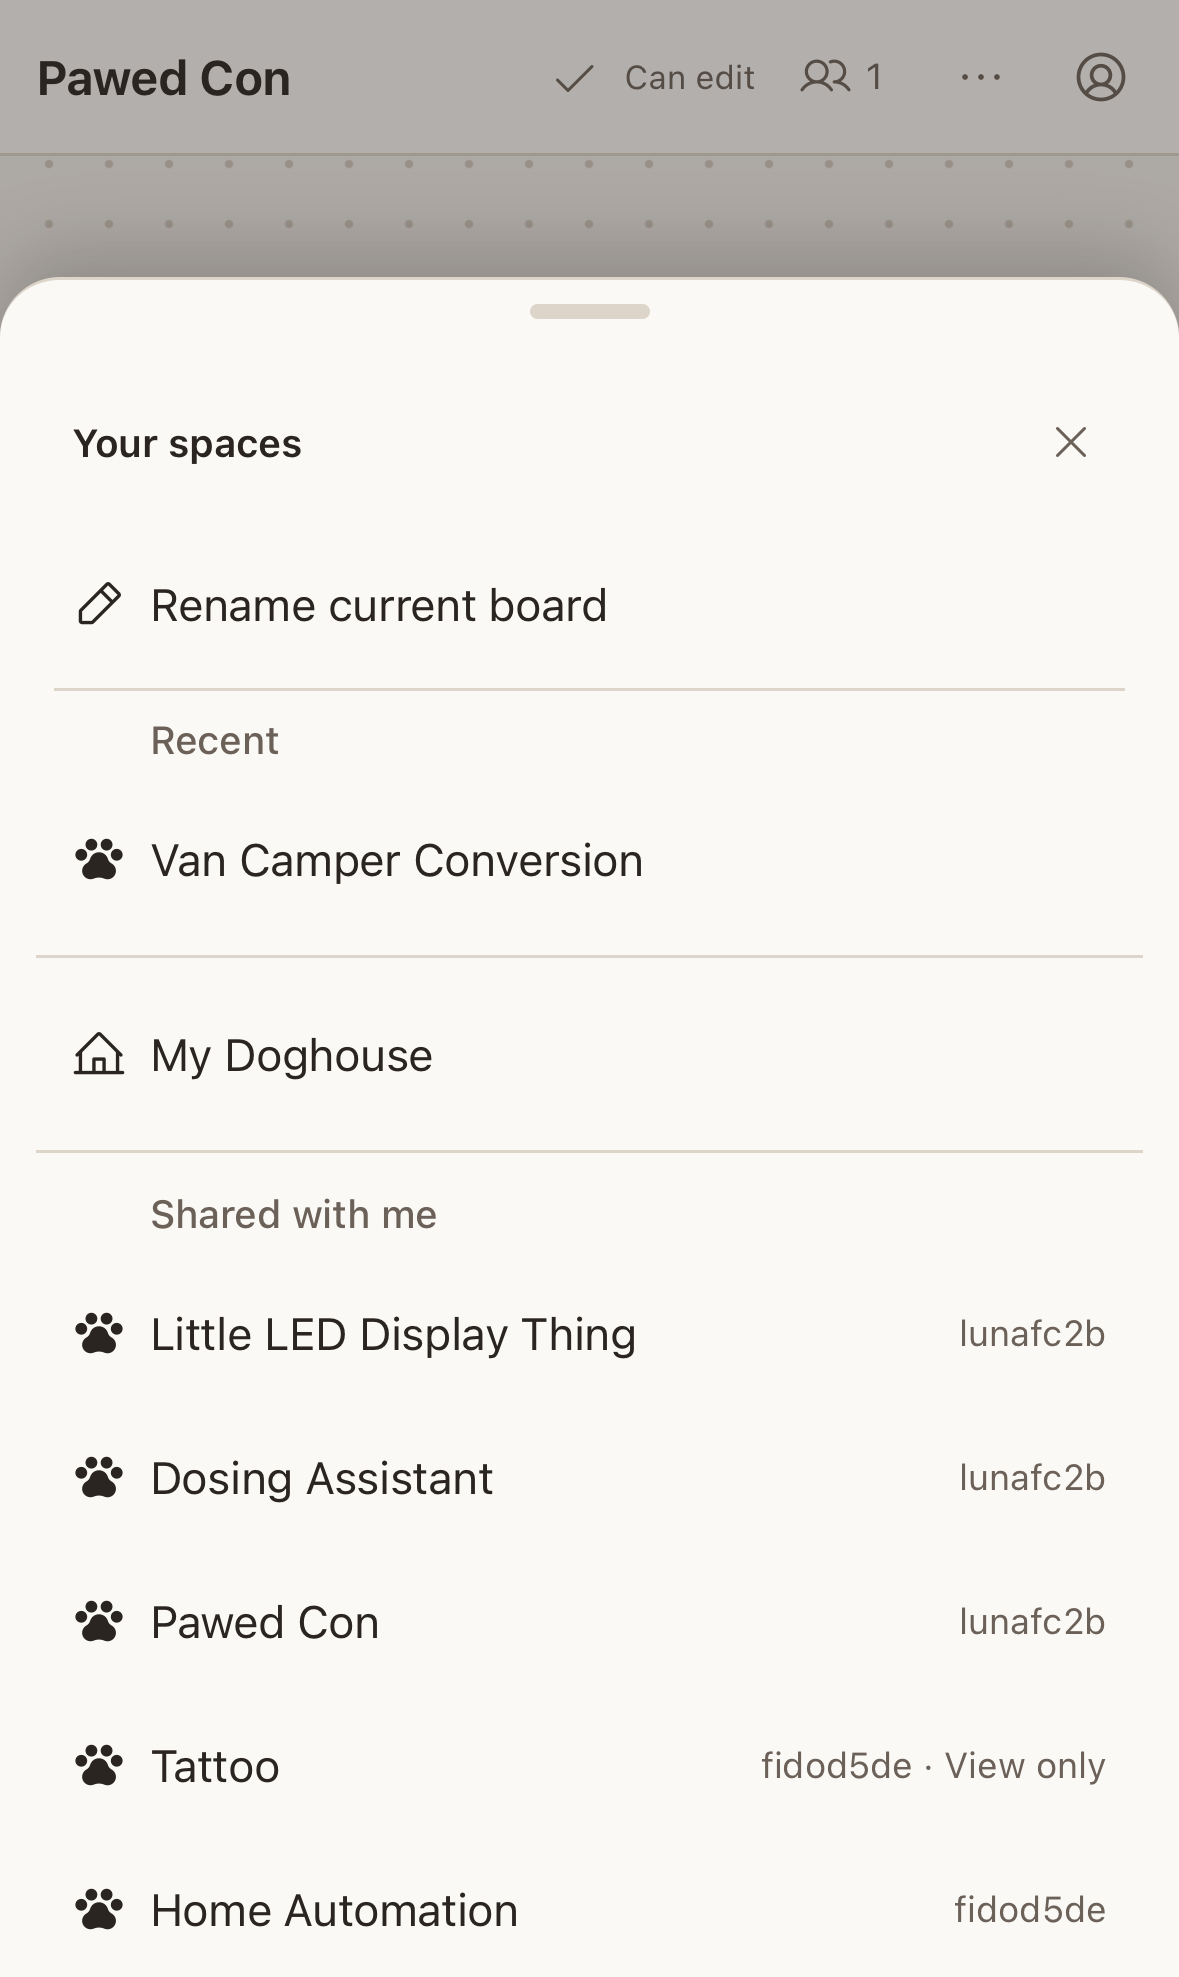
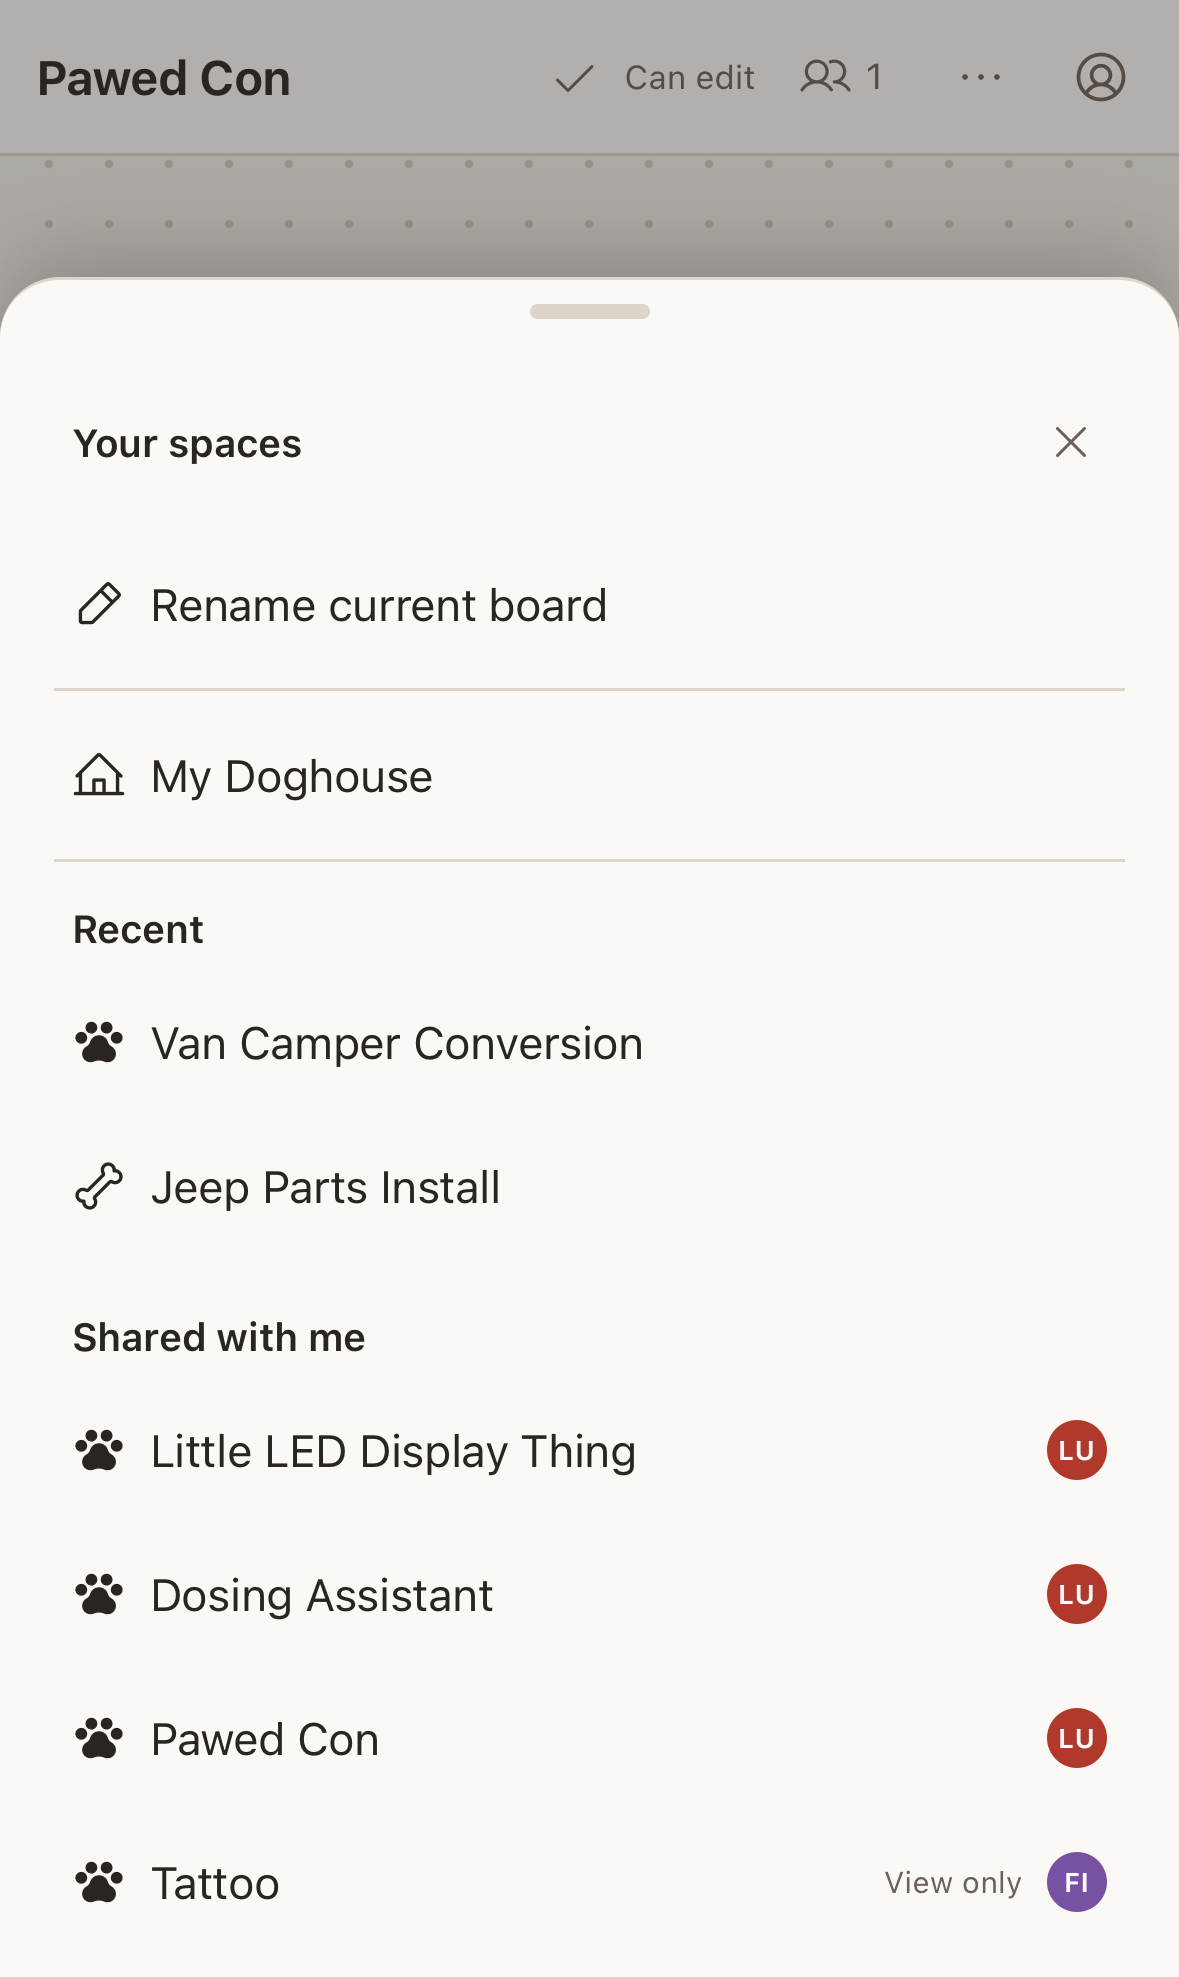
Give Your spaces real sections: places first, then Recent and Shared
Design review follow-up. Section titles looked like row metadata, My
Doghouse floated alone between two rules, and repeated usernames made a
ragged right edge.

- Fixed places (My Doghouse, Shared space) sit on top in the same spot;
  one rule separates them from the lists below.
- Recent and Shared with me headings use the text colour, semibold, aligned
  with the icons, with more room above than below. No extra rules.
- Who shared a board is their avatar in their cursor colour (personColor);
  the row's accessible name and tooltip spell out the name. /api/access adds
  sharedById (additive).
- Show all is a plain text row in the label column, not a fake board row.

diff --git a/apps/web/src/ui/BoardNavigation.tsx b/apps/web/src/ui/BoardNavigation.tsx
@@ -5,11 +5,13 @@ import { boardPermissions, homeBoardId, legacyShared } from '../state/access.ts'
 import { user } from '../state/session.ts'
 import { boardId, openBoard, recentBoards, setRenamingBoardId } from '../state/ui.ts'
 import { phone } from '../state/device.ts'
-import { canReadBoard } from '../state/access.ts'
+import { canReadBoard, type BoardPermission } from '../state/access.ts'
 import { sharedRoots } from '../state/sharedBoards.ts'
+import { initials, personStyle } from '../state/realtime.ts'
 import * as doc from '../state/doc.ts'
 import { BoardIconSvg, Icon } from './icons.tsx'
 import './navigation.css'
+import './collaboration.css'
 import { installMenu } from './menu.ts'
 
 const SHARED_PREVIEW = 5
@@ -31,6 +33,8 @@ export function BoardNavigation(props: { renderTrigger?: (state: { open: Accesso
     sharedList.querySelectorAll<HTMLButtonElement>('[data-testid="shared-board-link"]')[SHARED_PREVIEW]?.focus()
   }
   createEffect(() => { if (!open()) setShowAll(false) })
+  // The avatar only shows initials, so the row's name says who shared it and whether it's view only.
+  const sharedLabel = (b: BoardPermission) => [sharedTitle(b), b.sharedBy && `${COPY.boards.sharedBy} ${b.sharedBy}`, !b.canEdit && COPY.boards.viewOnly].filter(Boolean).join(', ')
   function go(id: string) { openBoard(id); setOpen(false); trigger.focus() }
   const canRename = () => phone() && !boardId().startsWith('toybox:') && doc.canWriteObject(doc.getBoard(boardId()))
   const rename = () => {
@@ -49,19 +53,20 @@ export function BoardNavigation(props: { renderTrigger?: (state: { open: Accesso
       <div class="nav-menu-head"><strong>{COPY.boards.heading}</strong><button class="icon-btn" aria-label={COPY.boards.close} onClick={() => { setOpen(false); trigger.focus() }}><Icon size={16} name="close" /></button></div>
       <div class="board-nav-scroll" data-testid="board-navigation-list">
         <Show when={canRename()}><button class="menu-item nav-menu-row" data-testid="rename-current-board" onClick={rename}><Icon name="edit" size={18} /><span class="nav-menu-label">{COPY.boards.rename}</span></button><div class="menu-sep" role="separator" /></Show>
+        <button class="menu-item nav-menu-row" data-testid="personal-home" onClick={() => go(homeBoardId())}><BoardIconSvg icon="kennel" size={18} /><span class="nav-menu-label">My {COPY.home}</span></button>
+        <Show when={legacyShared()}><div class="nav-menu-group"><button class="menu-item nav-menu-row" data-testid="legacy-space" aria-describedby={`${menuId}-legacy-description`} onClick={() => go('home')}><BoardIconSvg icon="paw" size={18} /><span class="nav-menu-label">{COPY.boards.legacy}</span></button><p id={`${menuId}-legacy-description`} class="nav-menu-description">{COPY.boards.legacyHint}</p></div></Show>
+        <div class="menu-sep" role="separator" />
         <Show when={recent().length}>
           <section class="nav-menu-recent" aria-labelledby={`${menuId}-recent-heading`}>
             <strong id={`${menuId}-recent-heading`} class="nav-menu-section-label">{COPY.boards.recent}</strong>
             <For each={recent()}>{(id) => <button class="menu-item nav-menu-row" data-testid="recent-board" onClick={() => go(id)}><BoardIconSvg icon={doc.getBoard(id)?.icon ?? 'paw'} size={18} /><span class="nav-menu-label">{boardDisplayTitle(doc.getBoard(id), id.startsWith('home') ? `My ${COPY.home}` : 'Untitled board')}</span></button>}</For>
           </section>
         </Show>
-        <button class="menu-item nav-menu-row" data-testid="personal-home" onClick={() => go(homeBoardId())}><BoardIconSvg icon="kennel" size={18} /><span class="nav-menu-label">My {COPY.home}</span></button>
-        <Show when={legacyShared()}><div class="nav-menu-group"><button class="menu-item nav-menu-row" data-testid="legacy-space" aria-describedby={`${menuId}-legacy-description`} onClick={() => go('home')}><BoardIconSvg icon="paw" size={18} /><span class="nav-menu-label">{COPY.boards.legacy}</span></button><p id={`${menuId}-legacy-description`} class="nav-menu-description">{COPY.boards.legacyHint}</p></div></Show>
         <section ref={sharedList} class="nav-menu-section" aria-labelledby={`${menuId}-shared-heading`}>
           <strong id={`${menuId}-shared-heading`} class="nav-menu-section-label">{COPY.boards.shared}</strong>
           <Show when={shared().length} fallback={<p class="nav-menu-description">{COPY.boards.sharedEmpty}</p>}>
-            <For each={visibleShared()}>{(b) => <button class="menu-item nav-menu-row" data-testid="shared-board-link" onClick={() => go(b.id)}><BoardIconSvg icon={doc.getBoard(b.id)?.icon ?? 'paw'} size={18} /><span class="nav-menu-label">{sharedTitle(b)}</span><Show when={b.sharedBy || !b.canEdit}><small class="nav-menu-meta"><Show when={b.sharedBy}><span class="nav-menu-who" title={b.sharedBy ?? undefined}>{b.sharedBy}</span></Show>{b.sharedBy && !b.canEdit ? ' · ' : ''}{b.canEdit ? '' : COPY.boards.viewOnly}</small></Show></button>}</For>
-            <Show when={!showAll() && shared().length > SHARED_PREVIEW}><button class="menu-item nav-menu-row nav-menu-more" data-testid="shared-show-all" onClick={expandShared}><Icon size={18} name="chevronDown" /><span class="nav-menu-label">{COPY.boards.showAll} ({shared().length})</span></button></Show>
+            <For each={visibleShared()}>{(b) => <button class="menu-item nav-menu-row" data-testid="shared-board-link" aria-label={sharedLabel(b)} onClick={() => go(b.id)}><BoardIconSvg icon={doc.getBoard(b.id)?.icon ?? 'paw'} size={18} /><span class="nav-menu-label">{sharedTitle(b)}</span><Show when={b.sharedBy || !b.canEdit}><span class="nav-menu-meta"><Show when={!b.canEdit}><small>{COPY.boards.viewOnly}</small></Show><Show when={b.sharedBy}>{(name) => <span class="person-avatar nav-menu-avatar" data-testid="shared-by" style={personStyle(b.sharedById ?? name())} title={`${COPY.boards.sharedBy} ${name()}`} aria-hidden="true">{initials(name())}</span>}</Show></span></Show></button>}</For>
+            <Show when={!showAll() && shared().length > SHARED_PREVIEW}><button class="menu-item nav-menu-row nav-menu-more" data-testid="shared-show-all" onClick={expandShared}><span aria-hidden="true" /><span class="nav-menu-label">{COPY.boards.showAll} ({shared().length})</span></button></Show>
           </Show>
         </section>
       </div>

diff --git a/apps/web/src/ui/navigation.css b/apps/web/src/ui/navigation.css
@@ -16,8 +16,6 @@
 .nav-menu-row > svg { width: 18px; height: 18px; flex-shrink: 0; }
 .nav-menu-label { min-width: 0; text-align: left; overflow-wrap: anywhere; }
 .nav-menu-meta { margin-left: auto; color: var(--dn-text-muted); font-size: 12px; white-space: nowrap; }
-/* Who shared a board: a long username shortens, the board's name keeps the room. */
-.nav-menu-who { display: inline-block; max-width: 10em; overflow: hidden; text-overflow: ellipsis; vertical-align: bottom; }
 .nav-menu-head { display: flex; align-items: center; justify-content: space-between; gap: 12px; padding: 4px 4px 8px 12px; }
 .nav-menu-head strong { font-size: 13px; font-weight: 600; line-height: 20px; }
 .nav-menu-head .icon-btn { flex-shrink: 0; }
@@ -27,8 +25,15 @@
 .board-nav-menu { display: flex; flex-direction: column; width: 340px; min-width: 0; overflow: hidden; }
 .board-nav-menu .nav-menu-head { flex-shrink: 0; }
 .board-nav-scroll { min-height: 0; overflow-y: auto; overscroll-behavior: contain; scrollbar-gutter: stable; }
-.board-nav-menu .nav-menu-section-label { padding-left: 38px; }
-.nav-menu-recent { padding-bottom: 8px; margin-bottom: 8px; border-bottom: 1px solid var(--dn-border); }
+/* Your spaces: fixed places on top, one rule, then lists under real headings
+   (text colour, aligned with the icons, more room above than below). */
+.board-nav-menu .nav-menu-section { padding-top: 0; margin-top: 0; border-top: 0; }
+.board-nav-menu .nav-menu-section-label { padding: 16px 12px 4px; color: var(--dn-text); font-size: 13px; font-weight: 600; line-height: 20px; }
+.board-nav-menu .menu-sep + section > .nav-menu-section-label { padding-top: 8px; }
+.board-nav-menu .nav-menu-section > .nav-menu-description { padding-left: 12px; }
+.board-nav-menu .nav-menu-meta { display: inline-flex; align-items: center; gap: 8px; }
+/* Who shared a board: their initials in their cursor colour. */
+.nav-menu-avatar { width: 20px; height: 20px; font-size: 9px; }
 .nav-menu-more { color: var(--dn-text-muted); }
 .topbar .board-navigation { display: flex; min-width: 0; }
 .ancestor-menu .nav-menu { width: 320px; }

diff --git a/apps/server/src/access.ts b/apps/server/src/access.ts
@@ -98,10 +98,10 @@ accessRoutes.get('/access', requireUser, async (c) => {
   await ensureHome(c.env.DB, c.get('user'))
   const a = await loadAccess(c.env.DB, c.get('user'))
   // When, and by whom, each board was last shared with this user directly. Navigation lists newest shares first.
-  const { results: shared } = await c.env.DB.prepare('SELECT g.board_id, g.created_at, u.username FROM board_grants g LEFT JOIN users u ON u.id=g.created_by LEFT JOIN shares s ON s.token=g.source_token WHERE g.user_id=?1 AND g.revoked_at IS NULL AND (g.source_token IS NULL OR (s.token IS NOT NULL AND s.revoked_at IS NULL)) ORDER BY g.created_at').bind(c.get('user').id).all<{ board_id: string; created_at: number; username: string | null }>()
+  const { results: shared } = await c.env.DB.prepare('SELECT g.board_id, g.created_at, g.created_by, u.username FROM board_grants g LEFT JOIN users u ON u.id=g.created_by LEFT JOIN shares s ON s.token=g.source_token WHERE g.user_id=?1 AND g.revoked_at IS NULL AND (g.source_token IS NULL OR (s.token IS NOT NULL AND s.revoked_at IS NULL)) ORDER BY g.created_at').bind(c.get('user').id).all<{ board_id: string; created_at: number; created_by: string; username: string | null }>()
   const grants = new Map(shared.map((g) => [g.board_id, g]))
   return c.json({ revision: a.revision, homeBoardId: a.homeBoardId, legacyShared: a.legacyShared, boards: [...a.boards.values()].filter((b) => a.canRead(b.id)).map((b) => {
     const g = grants.get(b.id)
-    return { ...b, canEdit: a.canEdit(b.id), canManage: a.canManage(b.id), ...(g && { sharedAt: g.created_at, sharedBy: g.username }) }
+    return { ...b, canEdit: a.canEdit(b.id), canManage: a.canManage(b.id), ...(g && { sharedAt: g.created_at, sharedBy: g.username, sharedById: g.created_by }) }
   }) })
 })

diff --git a/apps/web/e2e/board-navigation.spec.ts b/apps/web/e2e/board-navigation.spec.ts
@@ -48,8 +48,14 @@ test('Shared with me lists the top of each shared tree, newest first, with who s
     const rows = menu.getByTestId('shared-board-link')
     await expect(rows).toHaveCount(3)
     await expect(rows.locator('.nav-menu-label')).toHaveText(['Newer treat ideas', 'Look but no chew', 'Older walk plans'])
-    await expect(rows.nth(0).locator('.nav-menu-meta')).toHaveText(alice.username)
-    await expect(rows.nth(1).locator('.nav-menu-meta')).toHaveText(`${alice.username} · View only`)
+    // Who shared it is an avatar in their colour; the row's name spells it out.
+    await expect(rows.nth(0).getByTestId('shared-by')).toHaveText(alice.username.slice(0, 2).toUpperCase())
+    await expect(rows.nth(0).getByTestId('shared-by')).toHaveAttribute('title', `Shared by ${alice.username}`)
+    await expect(rows.nth(0)).toHaveAccessibleName(`Newer treat ideas, Shared by ${alice.username}`)
+    await expect(rows.nth(1).locator('.nav-menu-meta')).toContainText('View only')
+    await expect(rows.nth(1)).toHaveAccessibleName(`Look but no chew, Shared by ${alice.username}, View only`)
+    // Places come first, then the lists under their headings.
+    await expect(menu.locator('.nav-menu-row, .nav-menu-section-label').first()).toHaveAttribute('data-testid', 'personal-home')
     await expect(menu).not.toContainText('Inner walk route')
     await expect(menu).not.toContainText('Alice’s bench')
     await expect(menu).not.toContainText('Can edit')

diff --git a/apps/web/e2e/visual-navigation.spec.ts b/apps/web/e2e/visual-navigation.spec.ts
@@ -42,9 +42,13 @@ test('Boards empty descriptions align with labels in both appearances and short 
       await contained(menu, width, 480)
       const personal = page.getByTestId('personal-home')
       const labelX = await x(personal.locator('.nav-menu-label'))
-      expect(await x(personal.locator('svg'))).toBeLessThan(labelX)
-      for (const supporting of [menu.locator('.nav-menu-description').first(), menu.locator('.nav-menu-description').last(), menu.locator('.nav-menu-section-label')]) {
-        expect(Math.abs(await x(supporting) + await supporting.evaluate((el) => parseFloat(getComputedStyle(el).paddingLeft)) - labelX)).toBeLessThanOrEqual(1)
+      const iconX = await x(personal.locator('svg'))
+      expect(iconX).toBeLessThan(labelX)
+      const start = (el: Locator) => el.evaluate((node) => node.getBoundingClientRect().x + parseFloat(getComputedStyle(node).paddingLeft))
+      // A place's description sits under its name; list headings and their empty text line up with the icons.
+      expect(Math.abs(await start(menu.locator('.nav-menu-description').first()) - labelX)).toBeLessThanOrEqual(1)
+      for (const heading of [...await menu.locator('.nav-menu-section-label').all(), menu.locator('.nav-menu-description').last()]) {
+        expect(Math.abs(await start(heading) - iconX)).toBeLessThanOrEqual(1)
       }
       const row = await personal.boundingBox()
       expect(row!.height).toBeGreaterThanOrEqual(36)

diff --git a/apps/web/src/ui/Collaboration.tsx b/apps/web/src/ui/Collaboration.tsx
@@ -4,14 +4,13 @@ import './collaboration.css'
 import { For, Show, createMemo, createSignal, onCleanup, onMount } from 'solid-js'
 import { COPY } from '@doggynote/theme'
 import { noteMarkdown, type Card } from '@doggynote/core'
-import { liveState, members, peers, personStyle, sessionName, following, follow, stopFollowing, pingAt, pings, installRealtime } from '../state/realtime.ts'
+import { initials, liveState, members, peers, personStyle, sessionName, following, follow, stopFollowing, pingAt, pings, installRealtime } from '../state/realtime.ts'
 import { boardId, camera, viewport } from '../state/ui.ts'
 import * as doc from '../state/doc.ts'
 import { rectOf } from '../canvas/layout.ts'
 import { installMenu } from './menu.ts'
 import { user } from '../state/session.ts'
 
-const initials = (name: string) => name.slice(0, 2).toUpperCase()
 export function Collaborators() {
   const [open, setOpen] = createSignal(false)
   let root!: HTMLDivElement, trigger!: HTMLButtonElement

diff --git a/apps/web/src/state/access.ts b/apps/web/src/state/access.ts
@@ -3,7 +3,7 @@ import { api, ApiError } from './api.ts'
 import { user } from './session.ts'
 import * as doc from './doc.ts'
 
-export type BoardPermission = { id: string; parentId: string | null; ownerId: string | null; legacy: boolean; canEdit: boolean; canManage: boolean; sharedAt?: number; sharedBy?: string | null }
+export type BoardPermission = { id: string; parentId: string | null; ownerId: string | null; legacy: boolean; canEdit: boolean; canManage: boolean; sharedAt?: number; sharedBy?: string | null; sharedById?: string }
 export type AccessSnapshot = { revision: string; homeBoardId: string; legacyShared: boolean; boards: BoardPermission[] }
 const fallbackHome = () => `home:${user()?.id ?? cachedUserId()}`
 function cachedUserId() { try { return (JSON.parse(localStorage.getItem('doggynote.user') ?? '{}') as { id?: string }).id ?? '' } catch { return '' } }

diff --git a/apps/web/src/state/realtime.ts b/apps/web/src/state/realtime.ts
@@ -29,6 +29,7 @@ export function personColor(id: string) {
   for (const ch of id) hash = ((hash * 31) + ch.charCodeAt(0)) | 0
   return ['sky', 'ball', 'lilac', 'collar', 'gold', 'peach'][Math.abs(hash) % 6]!
 }
+export const initials = (name: string) => name.slice(0, 2).toUpperCase()
 export function personStyle(id: string) {
   const color = personColor(id)
   return { '--person-color': `var(--dn-person-${color})`, '--person-ink': 'var(--dn-person-ink)' }

diff --git a/packages/theme/src/copy.ts b/packages/theme/src/copy.ts
@@ -112,6 +112,8 @@ export const COPY = {
     /** A shared board's fallback title before its title has synced. */
     sharedUntitled: 'Shared board',
     viewOnly: 'View only',
+    /** "Shared by luna": the avatar on a shared board's row. */
+    sharedBy: 'Shared by',
     /** "Show all (12)": expands the shared list past its first few boards. */
     showAll: 'Show all',
   },
